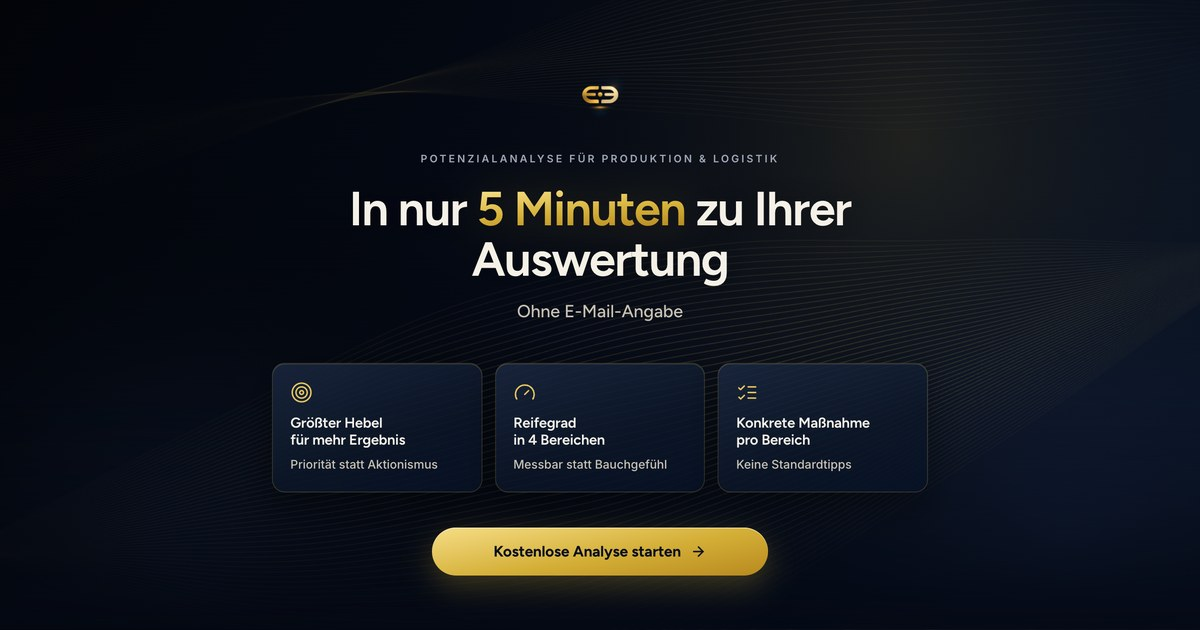
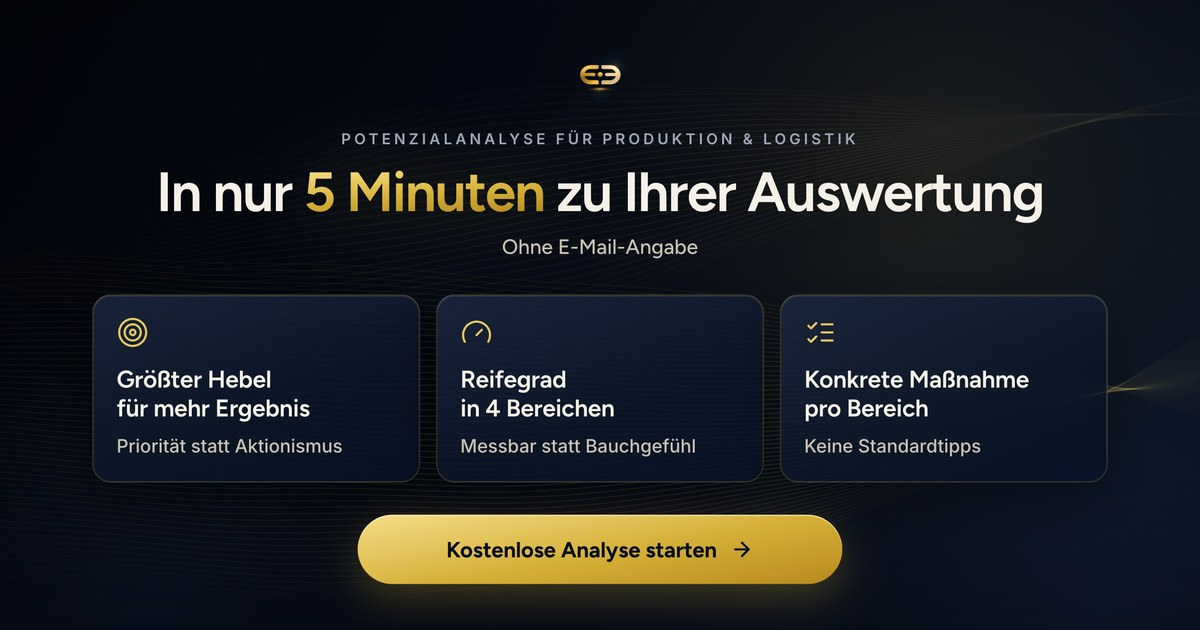
Potenzialanalyse: Link-Vorschau enger zugeschnitten, Titel = Startseiten-Headline
- Standbild reingezoomt: Headline einzeilig, Nutzen-Kacheln groß und von Weitem lesbar
- og:title und twitter:title „In nur 5 Minuten zu Ihrer Auswertung“

diff --git a/index.html b/index.html
@@ -8,7 +8,7 @@
 <meta name="description" content="In nur 5 Minuten zu Ihrer Auswertung, ganz ohne E-Mail-Angabe. Potenzialanalyse für Produktion & Logistik: Ihr größter Hebel, Ihr Reifegrad und eine konkrete Maßnahme pro Bereich." />
 
 <!-- Open Graph (LinkedIn, Facebook) -->
-<meta property="og:title" content="Wie wirksam ist Ihr Führungssystem wirklich?">
+<meta property="og:title" content="In nur 5 Minuten zu Ihrer Auswertung">
 <meta property="og:description" content="Kostenlose Analyse mit Reifegrad, größten Wirkhebeln und konkreten Verbesserungspotenzialen.">
 <!-- Standbild der Startseite (1200 × 630); neuer Dateiname, damit LinkedIn & Co. nicht das alte Bild aus dem Zwischenspeicher zeigen -->
 <meta property="og:image" content="https://analyse.elearneffect.de/og-startseite.jpg">
@@ -22,7 +22,7 @@
 
 <!-- Twitter / X Card -->
 <meta name="twitter:card" content="summary_large_image">
-<meta name="twitter:title" content="Wie wirksam ist Ihr Führungssystem wirklich?">
+<meta name="twitter:title" content="In nur 5 Minuten zu Ihrer Auswertung">
 <meta name="twitter:description" content="Kostenlose Analyse mit Reifegrad, größten Wirkhebeln und konkreten Verbesserungspotenzialen.">
 <meta name="twitter:image" content="https://analyse.elearneffect.de/og-startseite.jpg">
 <meta name="twitter:image:alt" content="Startseite der eLearneffect Potenzialanalyse">
